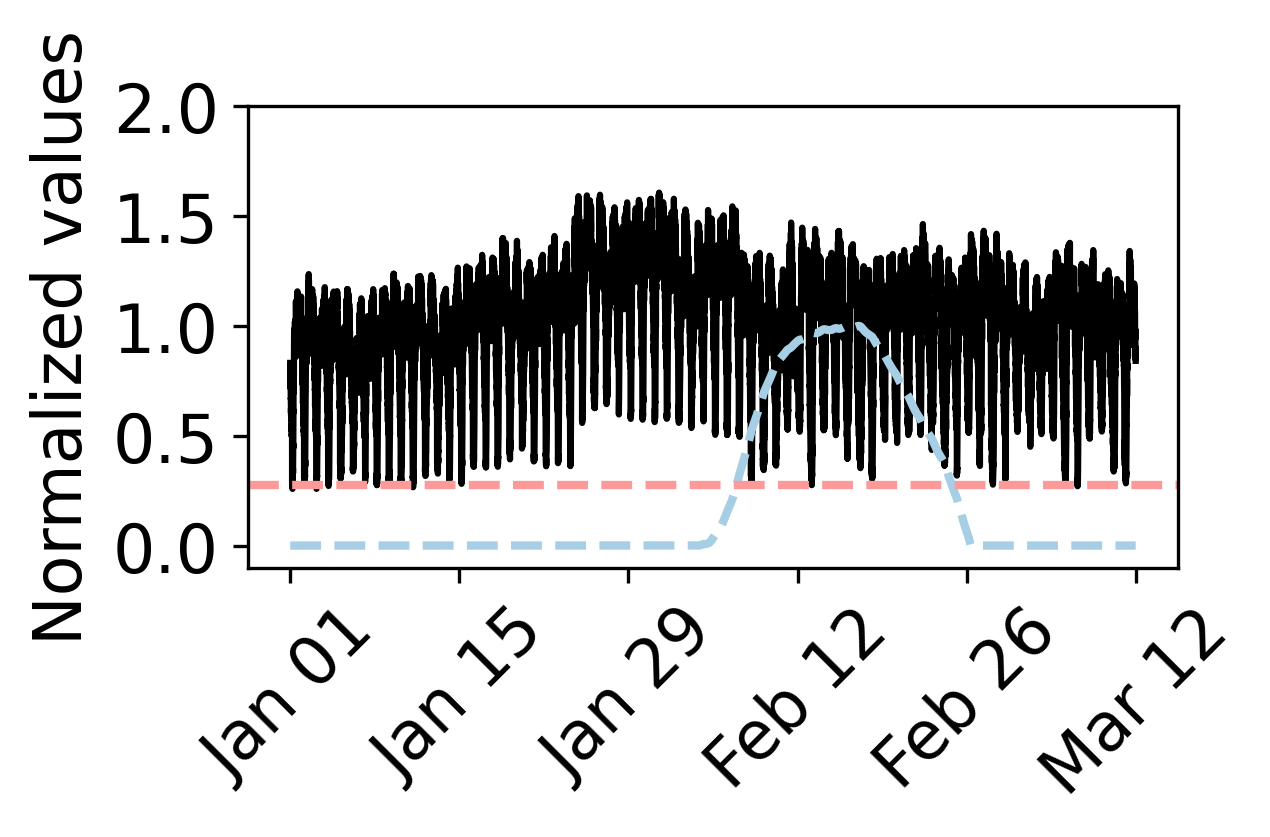
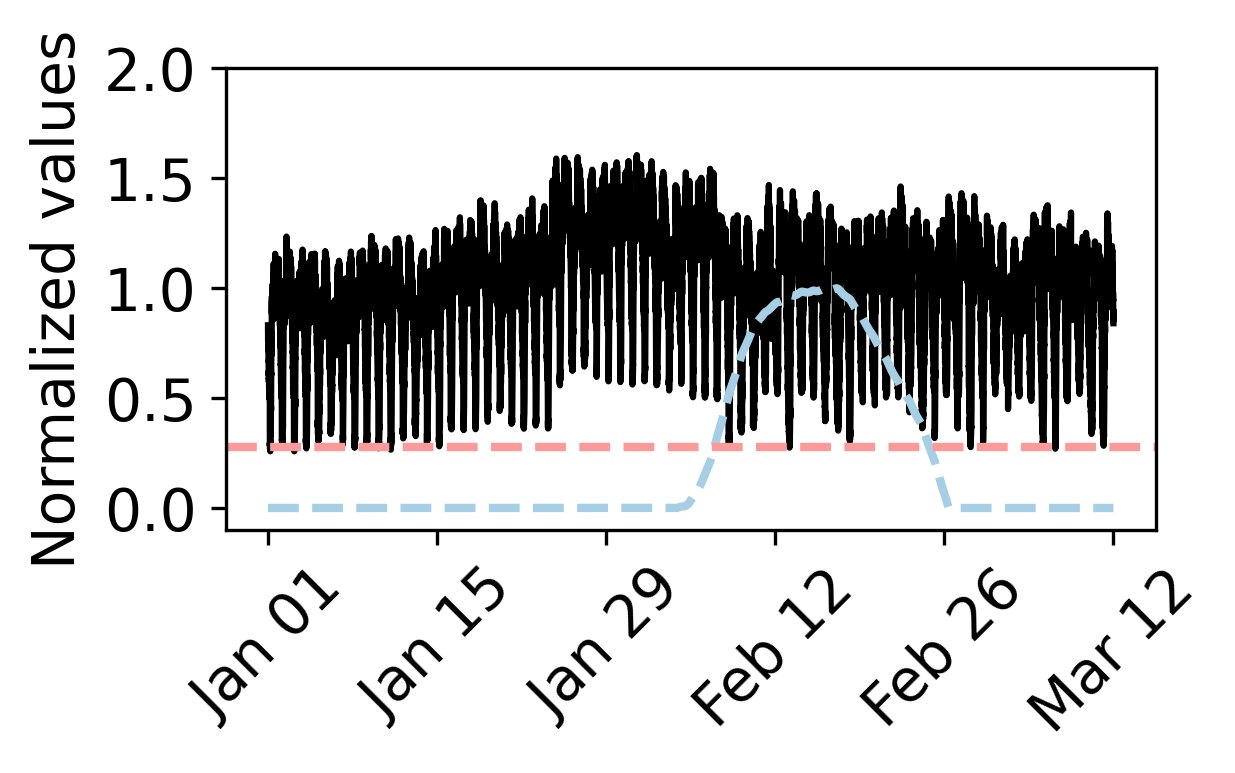
Updated leakage_detection plots

Changed region(s): [[0.0, 0.031, 0.9846, 0.9625], [0.8, 0.8072, 0.9231, 0.9625]]

diff --git a/leakage_detection.py b/leakage_detection.py
@@ -23,9 +23,9 @@ node_colors = {
     'p227': 'black',
     'p235': '#B2E08A', 
 }
-plt.rcParams['axes.labelsize'] = 22  # Font size for axis labels
-plt.rcParams['xtick.labelsize'] = 22  # Font size for x-axis tick labels
-plt.rcParams['ytick.labelsize'] = 22  # Font size for y-axis tick labels
+plt.rcParams['axes.labelsize'] = 14  # Font size for axis labels
+plt.rcParams['xtick.labelsize'] = 14  # Font size for x-axis tick labels
+plt.rcParams['ytick.labelsize'] = 14  # Font size for y-axis tick labels
 
 class LeakageDetectionSystem:
     def __init__(self, train_data_path, test_data_path, network_path, delta_t=5):
@@ -336,10 +336,9 @@ class LeakageDetectionSystem:
             datetime(2019, 2, 26),
             datetime(2019, 3, 12),
         ])
-        ax.set_ylabel("Normalized values", fontsize=16)
+        ax.set_ylabel("Normalized values")
         ax.set_ylim([-0.1, 2.0])
         ax.set_yticks([0, 0.5, 1.0, 1.5, 2.0])
-        ax.tick_params(axis='both', which='major', labelsize=16)
         ax.tick_params(axis='x', labelrotation=45)
         if visualize:
             plt.show()
